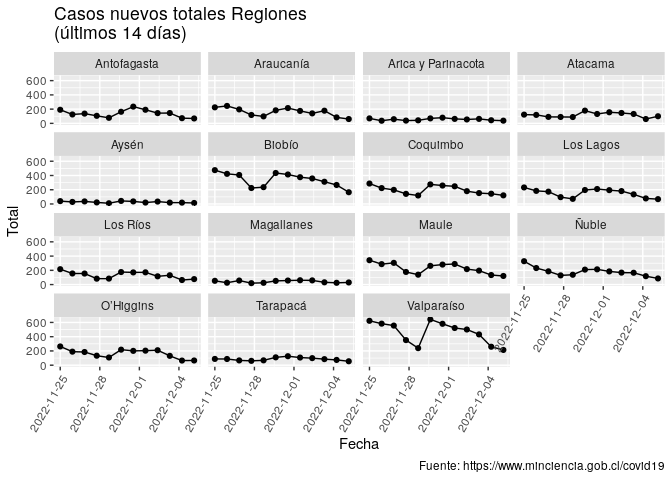
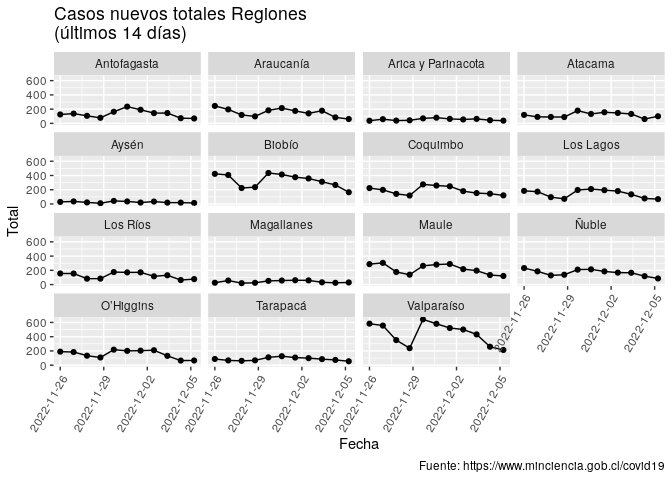
Re-build Rmarkdown files

diff --git a/README.md b/README.md
@@ -3,7 +3,7 @@
 
 Ejemplo de uso de total\_casos de COVID recopilados por el Ministerio de
 Ciencia de Chile <https://www.minciencia.gob.cl/covid19>. Última
-actualización: 2022-12-08
+actualización: 2022-12-09
 
 ## Visualización desde el comienzo de la pandemia
 
